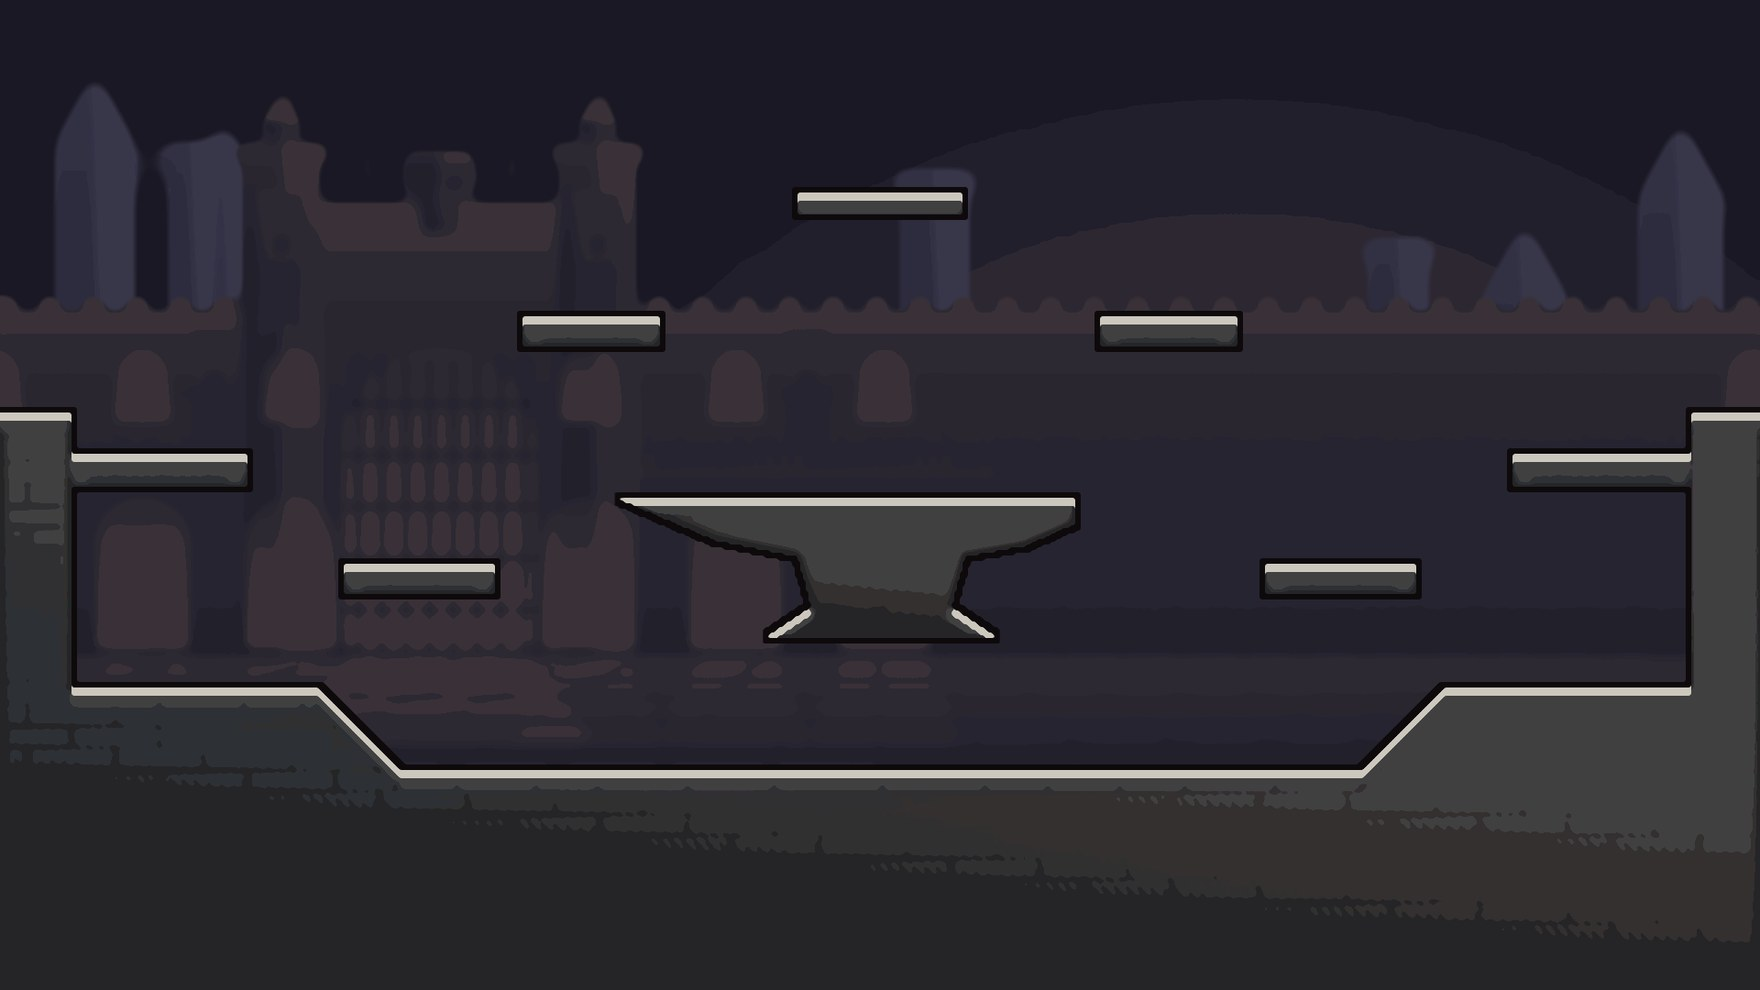
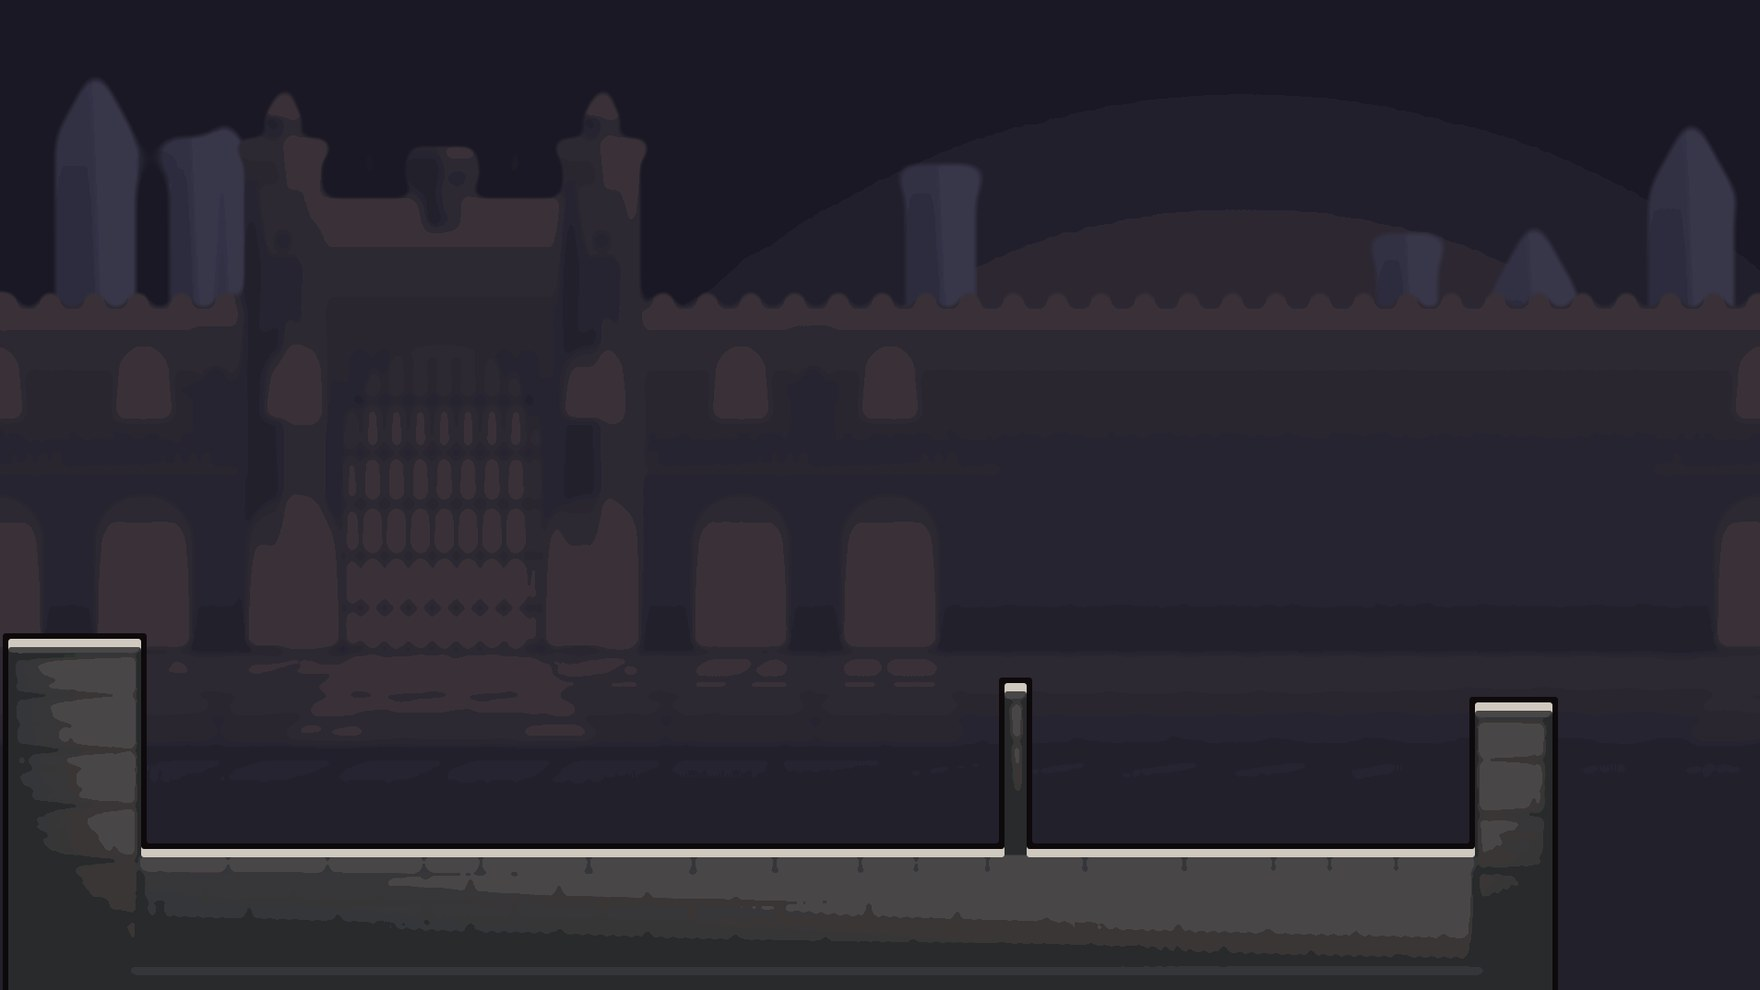
Aggiorna livello prima_sfida con nuova arena, Favilla codarda e guardie per armi base

diff --git a/strumenti/grafica/cortile.py b/strumenti/grafica/cortile.py
@@ -308,6 +308,7 @@ LEZIONI = {
     "spostano": ["selciato", "pilastro", "pilastro", "legno", "legno"],       # la corsia di Favilla è di legno
     "attrezzi": ["selciato", "legno", "selciato"],                            # le due rive e la piattaforma
     "sfida_burrone": ["selciato", "legno", "selciato"],                       # la sfida: le rive e la piattaforma
+    "prima_sfida": ["selciato", "pilastro", "pilastro", "pilastro"],          # il pavimento, il muretto e le pareti
 }
 
 
